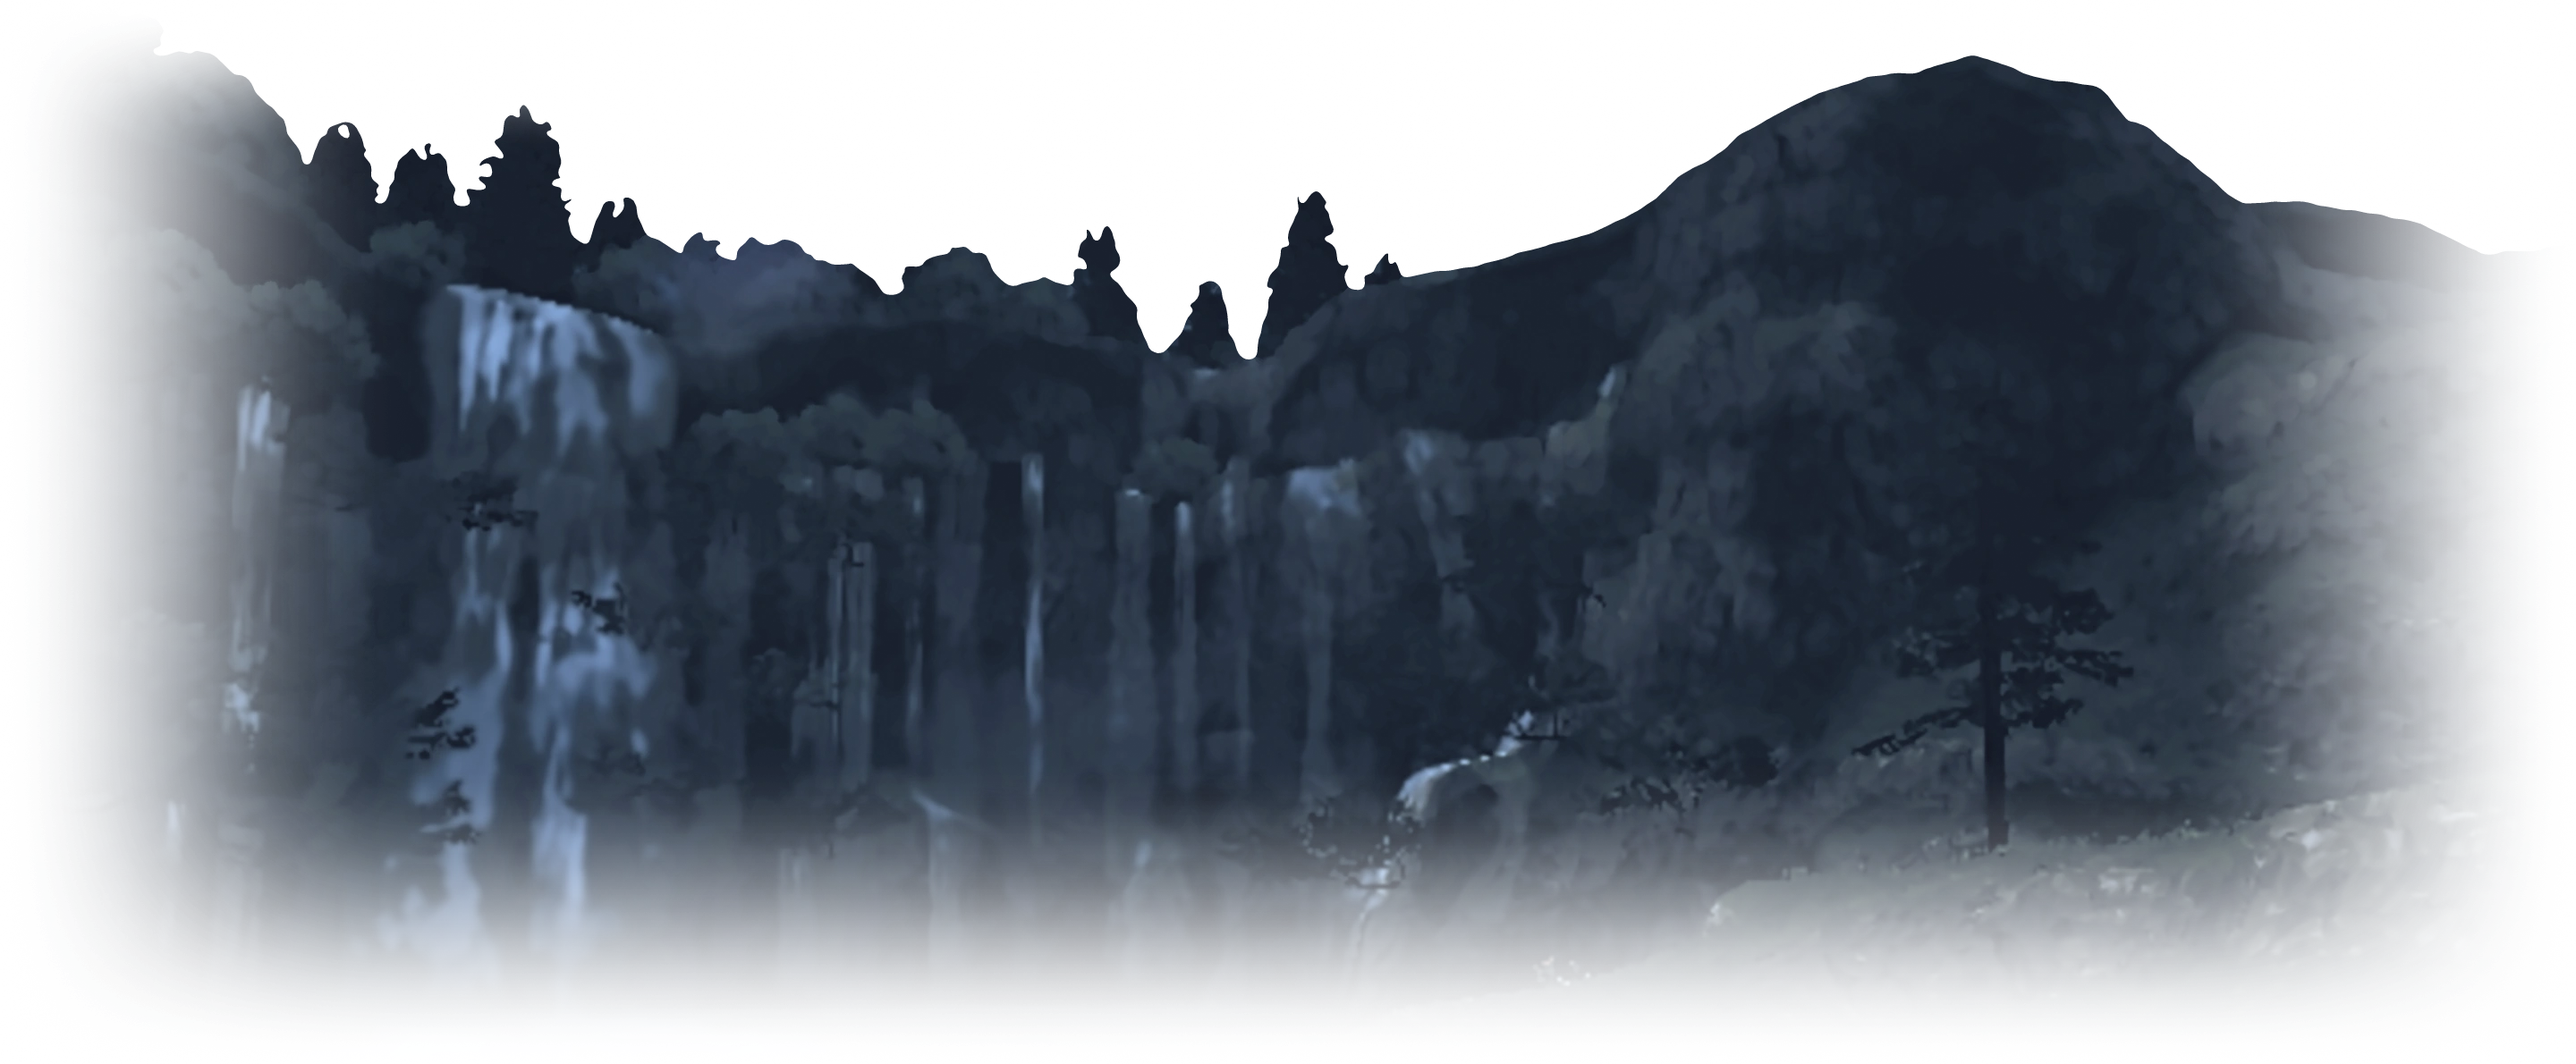
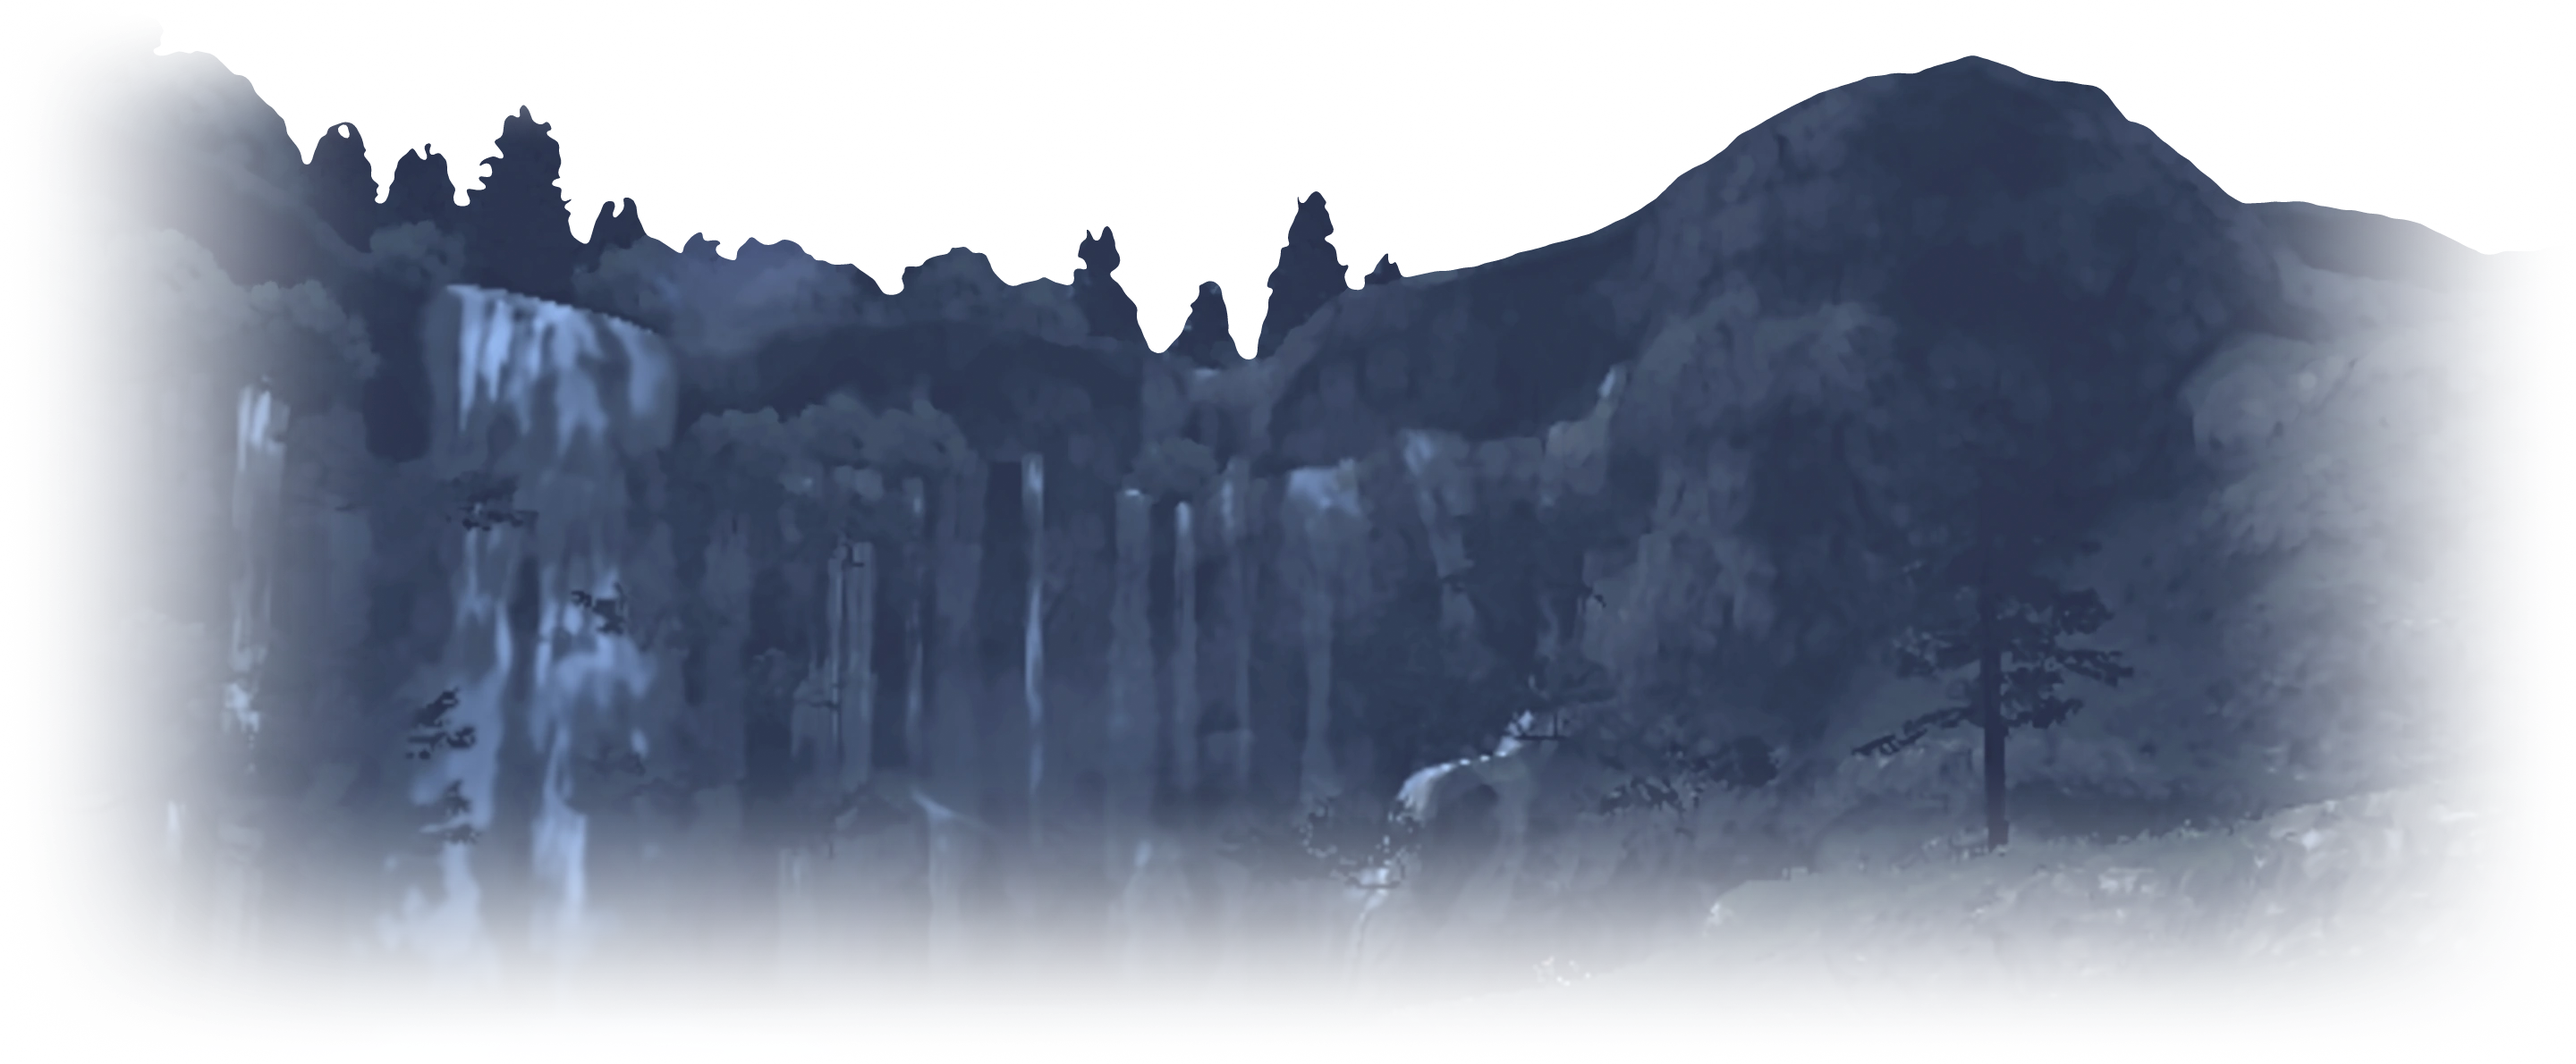
World Time wallpaper: smaller, fixed behind the page while scrolling, no dark rim
Claude-Session: https://claude.ai/code/session_01JFbAAtZquShT1fwU1ErE8a

diff --git a/site.css b/site.css
@@ -285,11 +285,11 @@ a.drop:hover,a.drop:focus{color:var(--bright);border-bottom-color:var(--accent);
 .wt-qlist li span{color:var(--muted)}.wt-qlist li b{font-weight:500;color:var(--text)}
 /* World Time wallpaper (Misareaux falls at night) + card icons */
 .wt-page{position:relative;isolation:isolate}
-.wt-wall{position:absolute;z-index:-1;left:0;right:0;top:0;height:min(820px,62vw);pointer-events:none;overflow:hidden;
-background:radial-gradient(ellipse 58% 62% at 50% 30%,rgba(40,52,74,.5),rgba(40,52,74,0) 75%);opacity:.7}
-.wt-wall::before{content:"";position:absolute;inset:0;background:url(img/wall-misareaux.webp) center 24px/min(1760px,122vw) auto no-repeat;filter:brightness(.5)}
-.wt-wall::after{content:"";position:absolute;inset:0;background:radial-gradient(ellipse 30% 34% at 50% 34%,rgba(10,11,18,.45),rgba(10,11,18,0) 100%)}
-@media (max-width:760px){.wt-wall{height:460px}.wt-wall::before{background-size:auto 400px;background-position:42% 30px}}
+.wt-wall{position:fixed;z-index:-1;inset:0;pointer-events:none;overflow:hidden;
+background:radial-gradient(ellipse 48% 30% at 50% 26%,rgba(40,52,74,.32),rgba(40,52,74,0) 80%);opacity:.7}
+.wt-wall::before{content:"";position:absolute;inset:0;background:url(img/wall-misareaux.webp) center 42%/min(1240px,92vw) auto no-repeat;filter:brightness(.5)}
+.wt-wall::after{content:"";position:absolute;inset:0;background:radial-gradient(ellipse 30% 30% at 50% 40%,rgba(10,11,18,.4),rgba(10,11,18,0) 100%)}
+@media (max-width:760px){.wt-wall::before{background-size:auto 300px;background-position:42% 38%}}
 .wt-card{background:rgba(17,20,29,.92);backdrop-filter:blur(6px);-webkit-backdrop-filter:blur(6px)}
 .wt-strip{background:rgba(15,18,26,.88);backdrop-filter:blur(6px);-webkit-backdrop-filter:blur(6px)}
 .wt-card h3{display:flex;align-items:center;gap:12px}

diff --git a/new-player-guide.html b/new-player-guide.html
@@ -10,7 +10,7 @@
 <link rel="preconnect" href="https://fonts.googleapis.com">
 <link rel="preconnect" href="https://fonts.gstatic.com" crossorigin>
 <link rel="stylesheet" href="https://fonts.googleapis.com/css2?family=Cormorant+Garamond:ital,wght@0,300;0,400;0,500;0,600;1,400;1,500&amp;family=Inter:wght@400;500;600&amp;display=swap">
-<link rel="stylesheet" href="site.css?v=a6b40ad93a">
+<link rel="stylesheet" href="site.css?v=9eceb8a295">
 <style>
 .npg-steps{display:grid;grid-template-columns:repeat(auto-fit,minmax(240px,1fr));gap:16px}
 .npg-step{display:flex;gap:16px;align-items:flex-start;background:var(--card);border:1px solid var(--line);border-radius:12px;padding:22px}

diff --git a/nm-tracker.html b/nm-tracker.html
@@ -10,7 +10,7 @@
 <link rel="preconnect" href="https://fonts.googleapis.com">
 <link rel="preconnect" href="https://fonts.gstatic.com" crossorigin>
 <link rel="stylesheet" href="https://fonts.googleapis.com/css2?family=Cormorant+Garamond:ital,wght@0,300;0,400;0,500;0,600;1,400;1,500&amp;family=Inter:wght@400;500;600&amp;display=swap">
-<link rel="stylesheet" href="site.css?v=a6b40ad93a">
+<link rel="stylesheet" href="site.css?v=9eceb8a295">
 <style>
 .nmst{background:var(--bg);padding:18px 20px;display:flex;flex-direction:column;gap:2px}
 .nmst b{font-family:var(--serif);font-weight:400;font-size:38px;line-height:1;color:var(--bright)}

diff --git a/getting-started.html b/getting-started.html
@@ -10,7 +10,7 @@
 <link rel="preconnect" href="https://fonts.googleapis.com">
 <link rel="preconnect" href="https://fonts.gstatic.com" crossorigin>
 <link rel="stylesheet" href="https://fonts.googleapis.com/css2?family=Cormorant+Garamond:ital,wght@0,300;0,400;0,500;0,600;1,400;1,500&amp;family=Inter:wght@400;500;600&amp;display=swap">
-<link rel="stylesheet" href="site.css?v=a6b40ad93a">
+<link rel="stylesheet" href="site.css?v=9eceb8a295">
 <style>
 .gs-wrap{display:grid;grid-template-columns:1fr 340px;gap:40px;align-items:start}
 .gs-steps{list-style:none;margin:0;padding:0;display:flex;flex-direction:column;gap:16px}

diff --git a/rules.html b/rules.html
@@ -10,7 +10,7 @@
 <link rel="preconnect" href="https://fonts.googleapis.com">
 <link rel="preconnect" href="https://fonts.gstatic.com" crossorigin>
 <link rel="stylesheet" href="https://fonts.googleapis.com/css2?family=Cormorant+Garamond:ital,wght@0,300;0,400;0,500;0,600;1,400;1,500&amp;family=Inter:wght@400;500;600&amp;display=swap">
-<link rel="stylesheet" href="site.css?v=a6b40ad93a">
+<link rel="stylesheet" href="site.css?v=9eceb8a295">
 <style>
 .rules-wrap{display:grid;grid-template-columns:260px 1fr;gap:40px;align-items:start}
 .rules-toc{position:sticky;top:96px;display:flex;flex-direction:column;gap:14px}

diff --git a/companions.html b/companions.html
@@ -10,7 +10,7 @@
 <link rel="preconnect" href="https://fonts.googleapis.com">
 <link rel="preconnect" href="https://fonts.gstatic.com" crossorigin>
 <link rel="stylesheet" href="https://fonts.googleapis.com/css2?family=Cormorant+Garamond:ital,wght@0,300;0,400;0,500;0,600;1,400;1,500&amp;family=Inter:wght@400;500;600&amp;display=swap">
-<link rel="stylesheet" href="site.css?v=a6b40ad93a">
+<link rel="stylesheet" href="site.css?v=9eceb8a295">
 
 </head>
 <body>

diff --git a/crafting.html b/crafting.html
@@ -10,7 +10,7 @@
 <link rel="preconnect" href="https://fonts.googleapis.com">
 <link rel="preconnect" href="https://fonts.gstatic.com" crossorigin>
 <link rel="stylesheet" href="https://fonts.googleapis.com/css2?family=Cormorant+Garamond:ital,wght@0,300;0,400;0,500;0,600;1,400;1,500&amp;family=Inter:wght@400;500;600&amp;display=swap">
-<link rel="stylesheet" href="site.css?v=a6b40ad93a">
+<link rel="stylesheet" href="site.css?v=9eceb8a295">
 
 </head>
 <body>

diff --git a/hunt.html b/hunt.html
@@ -10,7 +10,7 @@
 <link rel="preconnect" href="https://fonts.googleapis.com">
 <link rel="preconnect" href="https://fonts.gstatic.com" crossorigin>
 <link rel="stylesheet" href="https://fonts.googleapis.com/css2?family=Cormorant+Garamond:ital,wght@0,300;0,400;0,500;0,600;1,400;1,500&amp;family=Inter:wght@400;500;600&amp;display=swap">
-<link rel="stylesheet" href="site.css?v=a6b40ad93a">
+<link rel="stylesheet" href="site.css?v=9eceb8a295">
 
 </head>
 <body>

diff --git a/index.html b/index.html
@@ -10,7 +10,7 @@
 <link rel="preconnect" href="https://fonts.googleapis.com">
 <link rel="preconnect" href="https://fonts.gstatic.com" crossorigin>
 <link rel="stylesheet" href="https://fonts.googleapis.com/css2?family=Cormorant+Garamond:ital,wght@0,300;0,400;0,500;0,600;1,400;1,500&amp;family=Inter:wght@400;500;600&amp;display=swap">
-<link rel="stylesheet" href="site.css?v=a6b40ad93a">
+<link rel="stylesheet" href="site.css?v=9eceb8a295">
 
 </head>
 <body>

diff --git a/jobs.html b/jobs.html
@@ -10,7 +10,7 @@
 <link rel="preconnect" href="https://fonts.googleapis.com">
 <link rel="preconnect" href="https://fonts.gstatic.com" crossorigin>
 <link rel="stylesheet" href="https://fonts.googleapis.com/css2?family=Cormorant+Garamond:ital,wght@0,300;0,400;0,500;0,600;1,400;1,500&amp;family=Inter:wght@400;500;600&amp;display=swap">
-<link rel="stylesheet" href="site.css?v=a6b40ad93a">
+<link rel="stylesheet" href="site.css?v=9eceb8a295">
 
 </head>
 <body>

diff --git a/news.html b/news.html
@@ -10,7 +10,7 @@
 <link rel="preconnect" href="https://fonts.googleapis.com">
 <link rel="preconnect" href="https://fonts.gstatic.com" crossorigin>
 <link rel="stylesheet" href="https://fonts.googleapis.com/css2?family=Cormorant+Garamond:ital,wght@0,300;0,400;0,500;0,600;1,400;1,500&amp;family=Inter:wght@400;500;600&amp;display=swap">
-<link rel="stylesheet" href="site.css?v=a6b40ad93a">
+<link rel="stylesheet" href="site.css?v=9eceb8a295">
 
 </head>
 <body>

diff --git a/quality-of-life.html b/quality-of-life.html
@@ -10,7 +10,7 @@
 <link rel="preconnect" href="https://fonts.googleapis.com">
 <link rel="preconnect" href="https://fonts.gstatic.com" crossorigin>
 <link rel="stylesheet" href="https://fonts.googleapis.com/css2?family=Cormorant+Garamond:ital,wght@0,300;0,400;0,500;0,600;1,400;1,500&amp;family=Inter:wght@400;500;600&amp;display=swap">
-<link rel="stylesheet" href="site.css?v=a6b40ad93a">
+<link rel="stylesheet" href="site.css?v=9eceb8a295">
 
 </head>
 <body>
